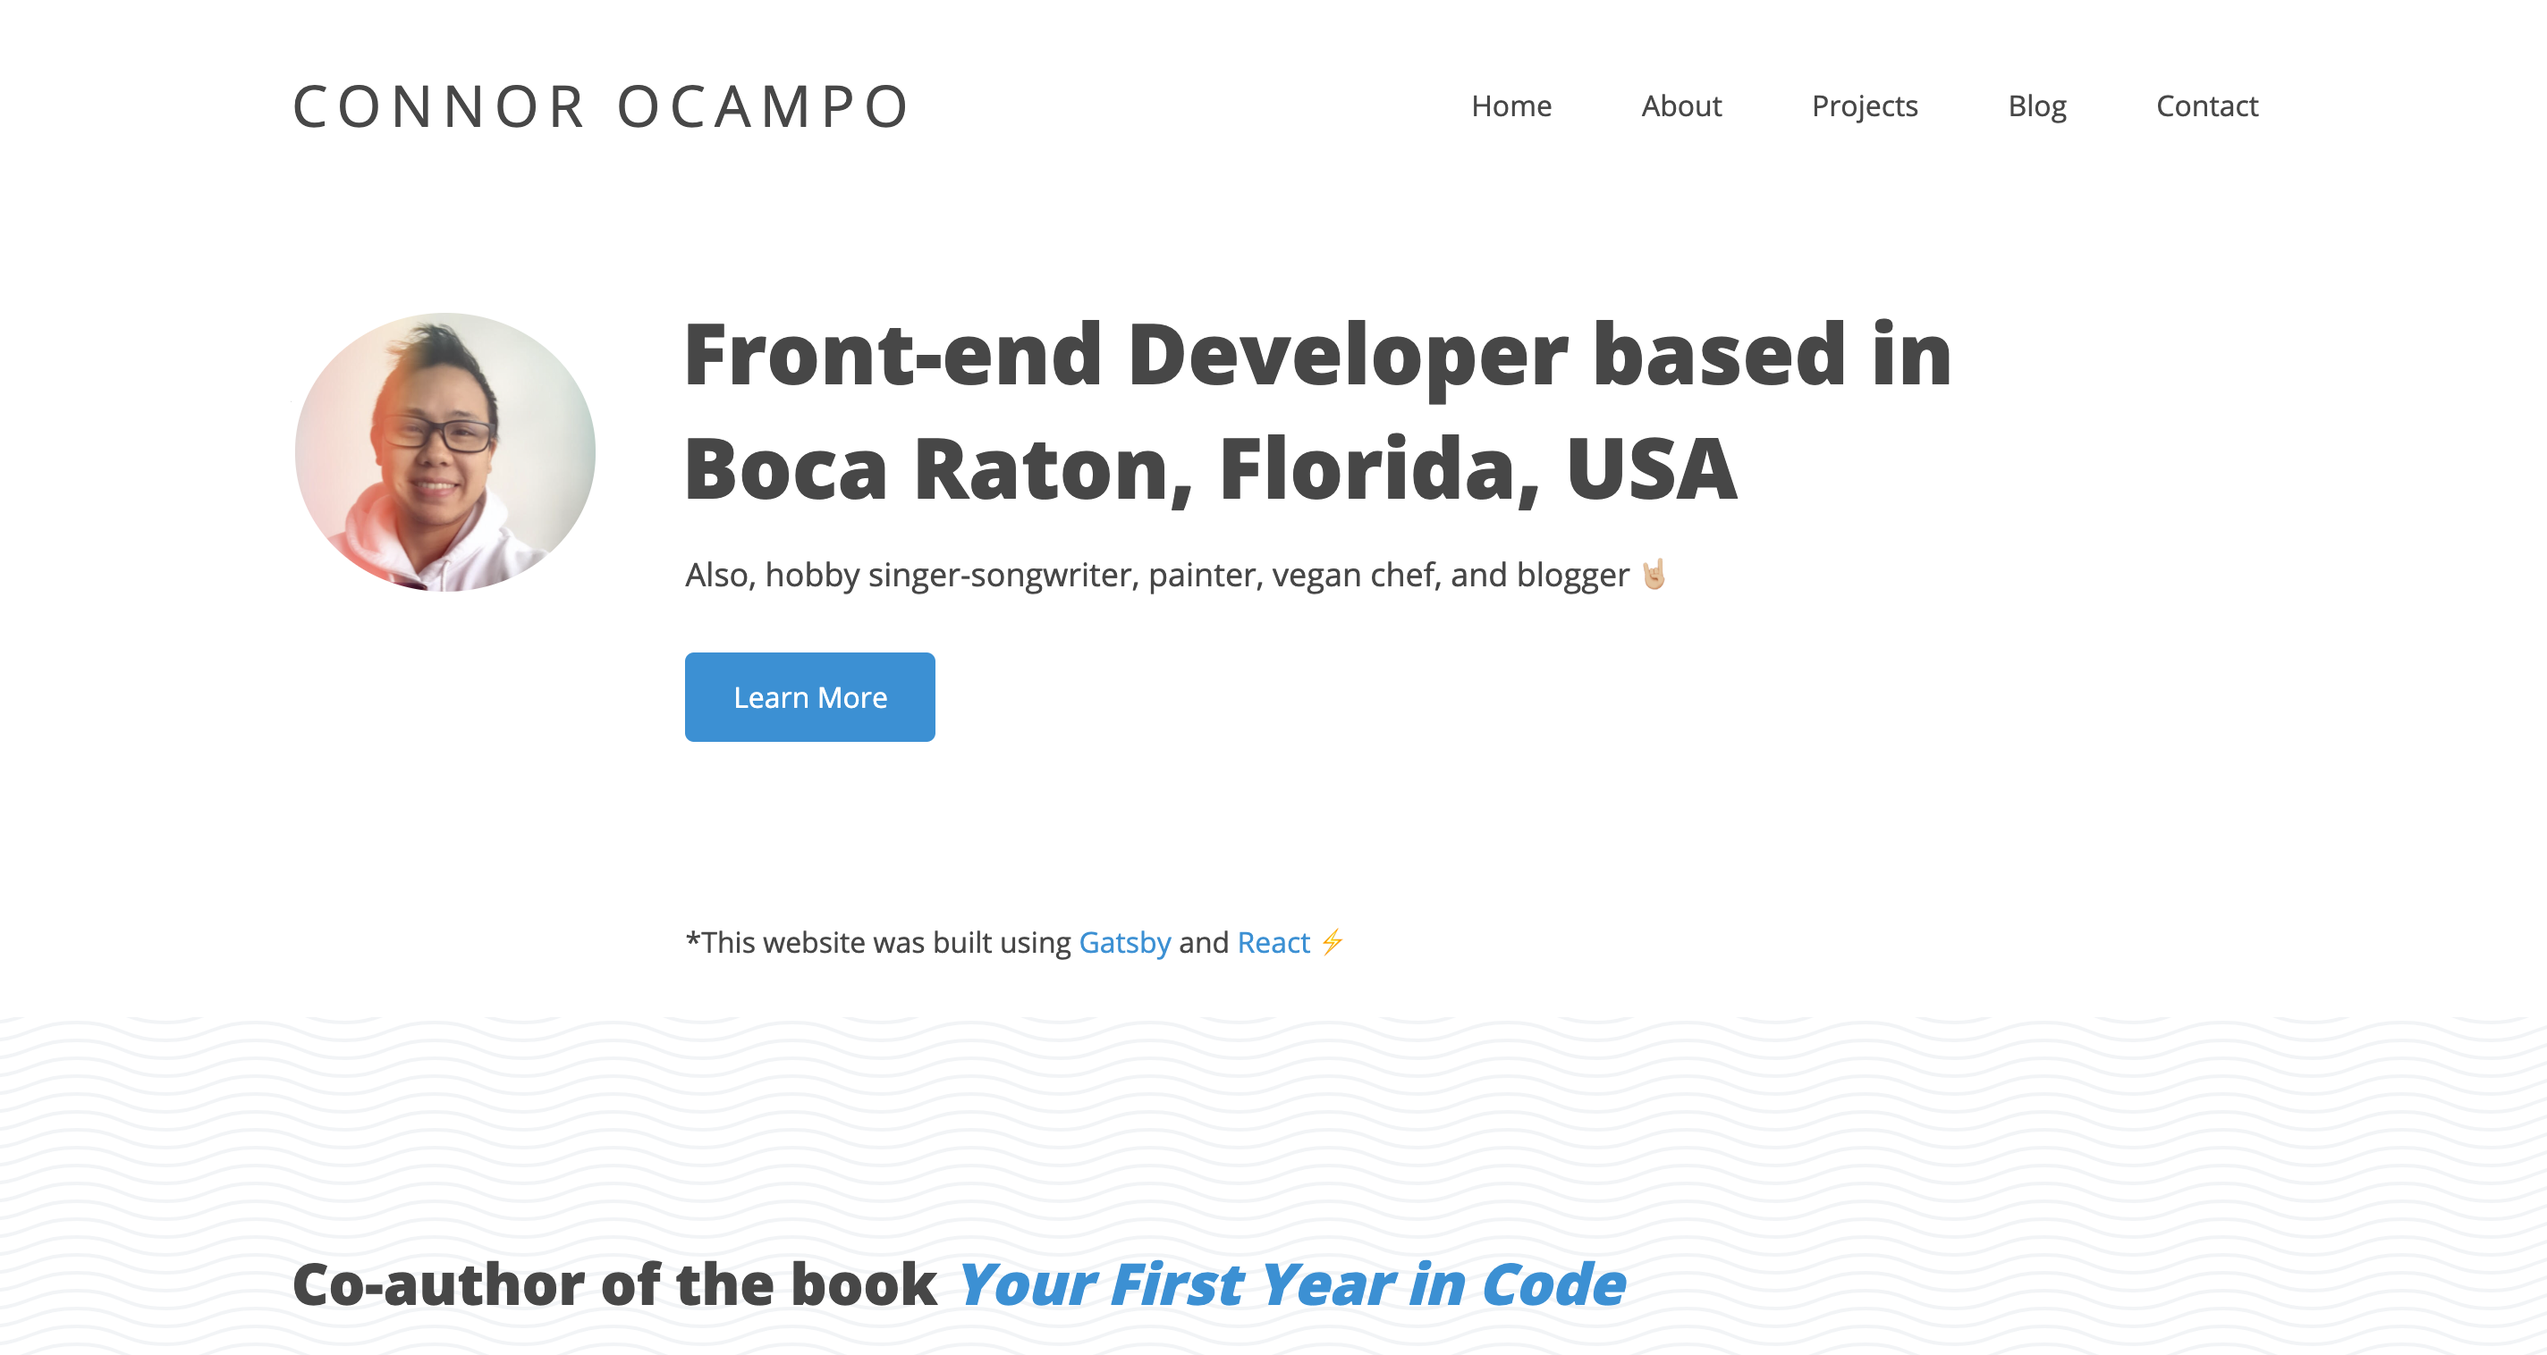
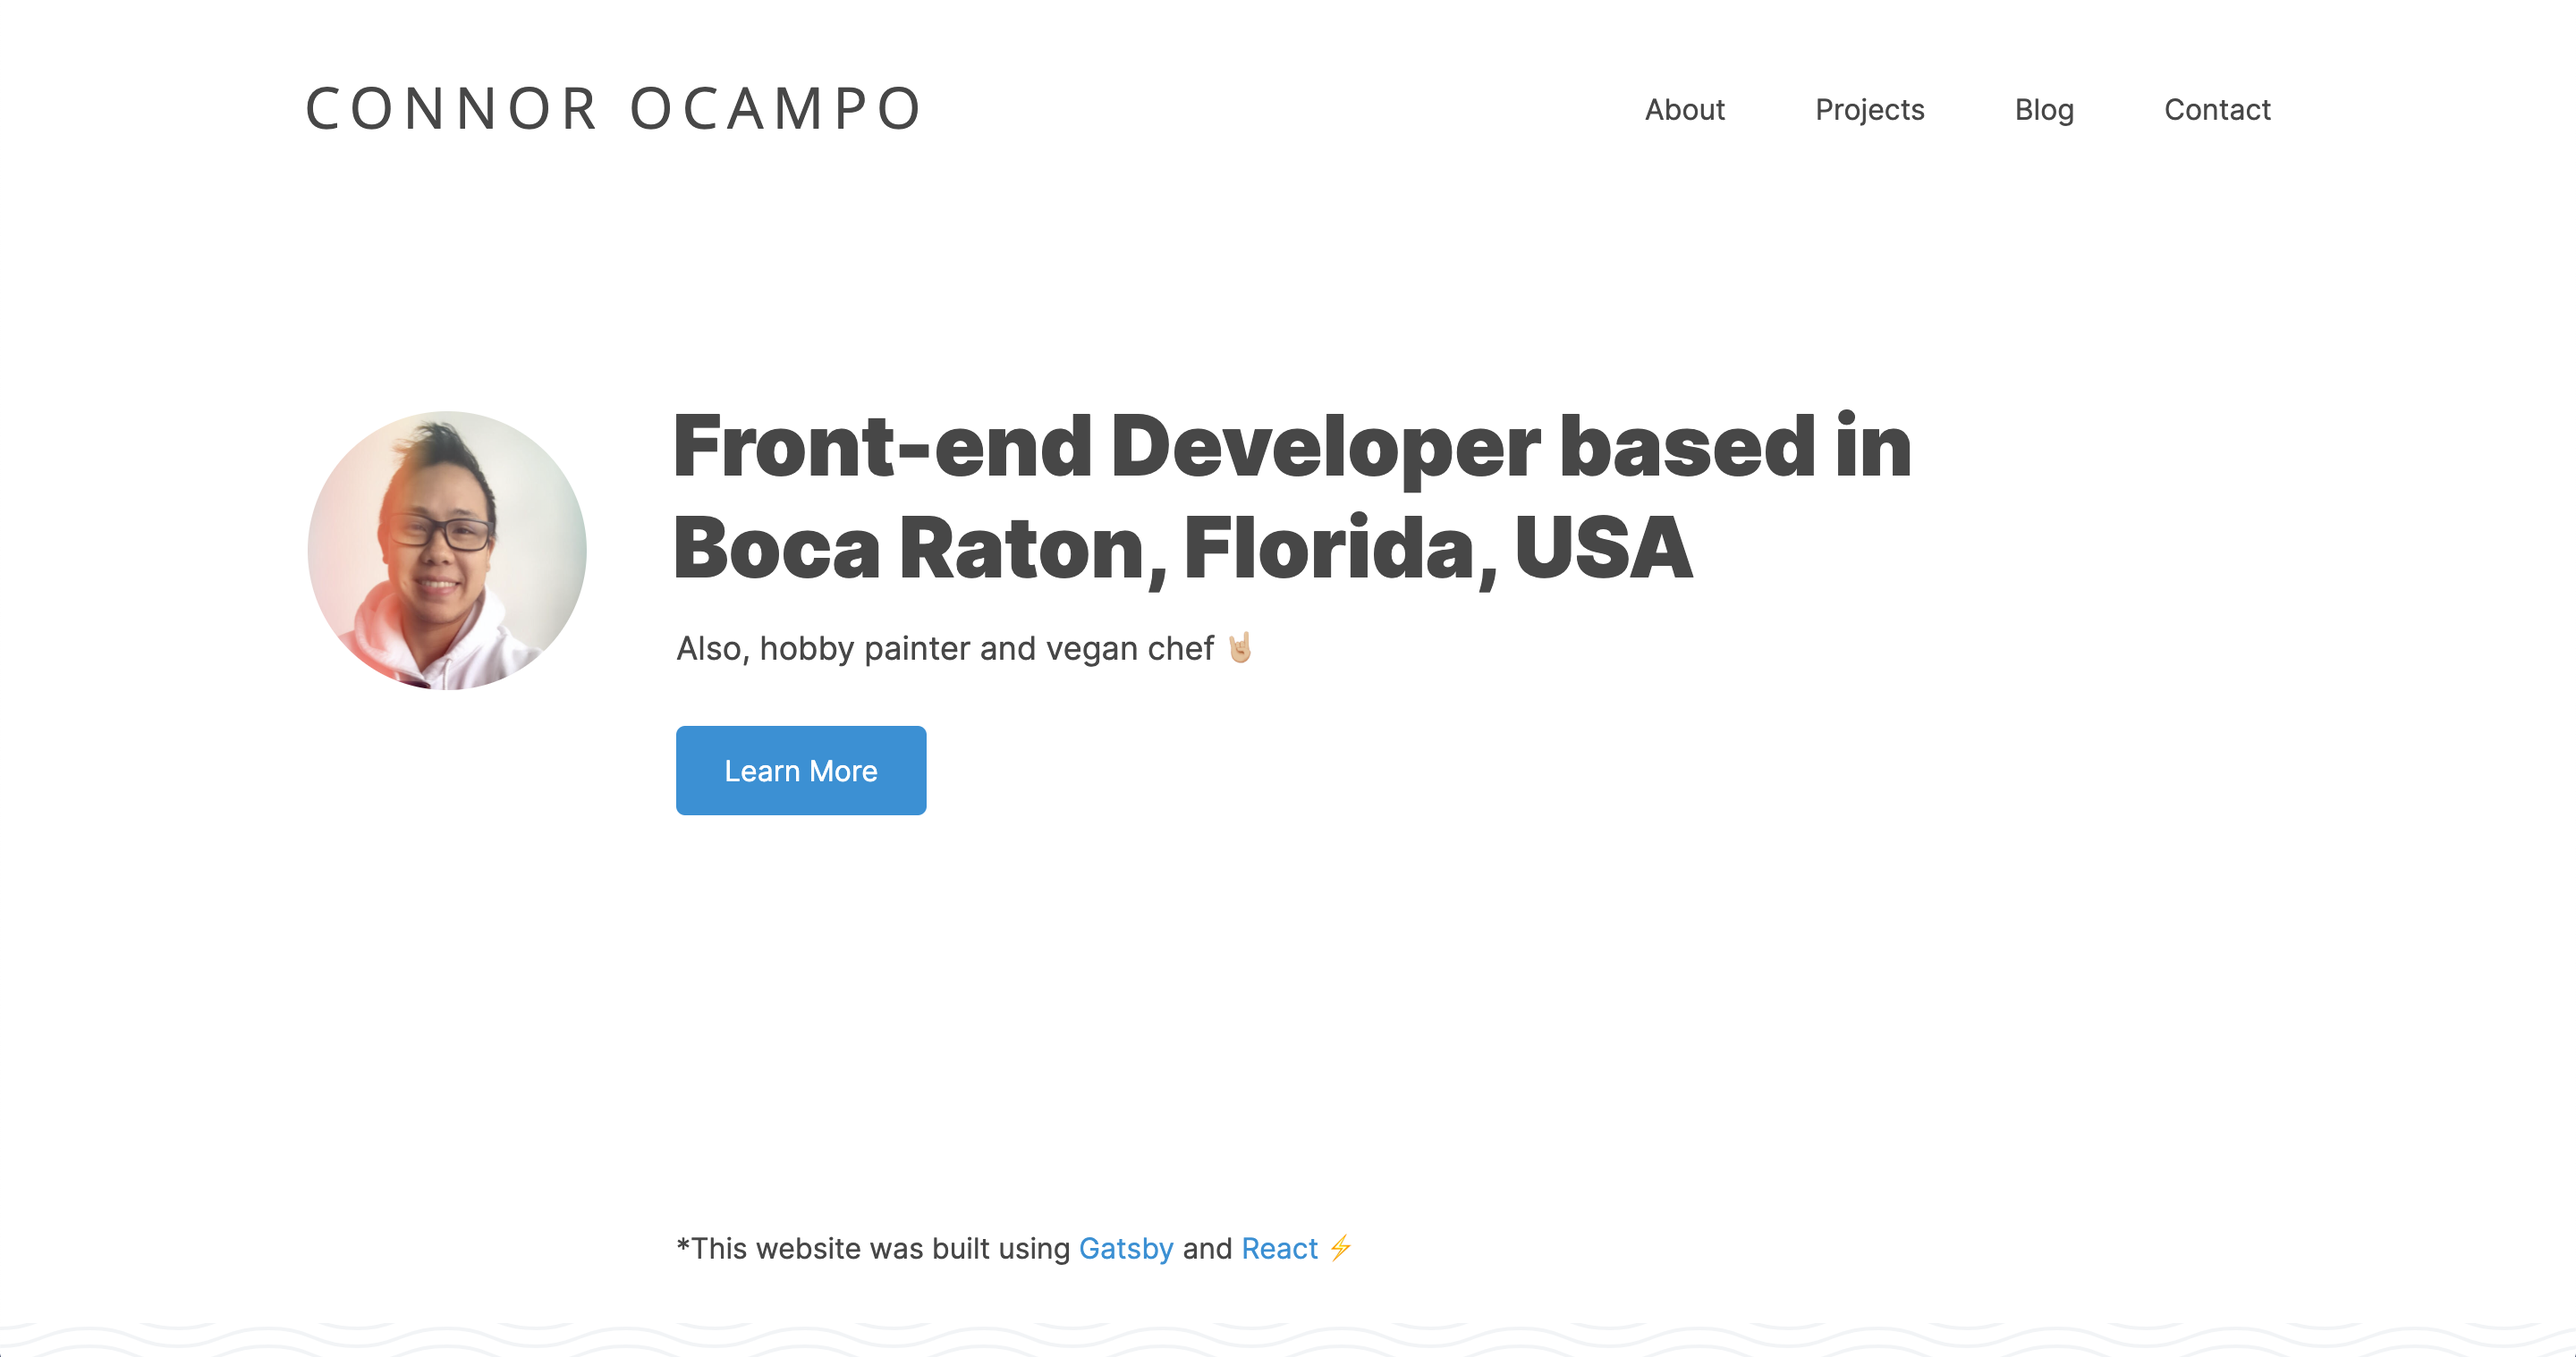
Add project image styles

diff --git a/src/assets/styles/main.css b/src/assets/styles/main.css
@@ -58,6 +58,10 @@ a:hover {
 
 /* Bio section */
 
+.bio-content {
+  margin-top: 20vh;
+}
+
 .bio-button {
   align-items: center;
   background: #0090D9;
@@ -67,7 +71,8 @@ a:hover {
   font-size: 16px;
   justify-content: center;
   height: 50px;
-  margin-bottom: 100px;
+  /* margin-bottom: 100px; */
+  margin-bottom: 30vh;
   text-decoration: none;
   width: 140px;
 }
@@ -118,10 +123,15 @@ a:hover {
 .project-item {
   transition-property: transform;
   transition-duration: 0.3s;
+  position: relative;
 }
 
 .project-item:hover {
-  transform: scale(1.1);
+  box-shadow: 10px 10px 0 #0090d9;
+  top: -5px;
+  left: -5px;
+  transition: left .2s ease, top .2s ease,box-shadow .2s ease;
+  will-change: left, top;
 }
 
 /* Shop Page */
@@ -163,6 +173,11 @@ a:hover {
   .bio-content {
     display: flex;
     flex-direction: column;
+    margin-top: 0;
+  }
+
+  .bio-button {
+    margin-bottom: 20vh;
   }
 
   .bio-thumbnail {
@@ -183,7 +198,7 @@ a:hover {
   }
 
   .tech-credit {
-    font-size: 12px;
+    font-size: 12px !important;
     max-width: 500px;
   }
 

diff --git a/src/pages/about.js b/src/pages/about.js
@@ -91,7 +91,7 @@ export default () => (
         <b><u>Front-end:</u></b> Github, Atom, VS Code (my fav), GIT, Homebrew, CSS, SCSS, Tailwind, React, styled-components, Gatsby, Netlify, Surge.sh. The design aspect is in my wheelhouse in terms of front-end development.
       </p>
       <p>
-        <b><u>Design:</u></b> Sketch, Abstract, Photoshop, and good ol' sketch paper. As far as design goes, I've done a bit of work on wireframing personal and professional projects.
+        <b><u>Design:</u></b> Sketch, Abstract, Photoshop, good ol' sketch paper, DaVinci Resolve.
       </p>
       <LastParagraph>
         <b><u>Marketing:</u></b> Google Analytics, SEMrush, Hootsuite, Yoast, MailChimp, Buffer. Most of my marketing work consists of monitoring/reporting analytics, copywriting and optimizing articles, and organic social media marketing.

diff --git a/src/pages/projects.js b/src/pages/projects.js
@@ -18,7 +18,6 @@ import Dribbble from "../assets/images/Dribbble.jpg";
 import Dribbble02 from "../assets/images/Dribbble02.jpg";
 import DroneWorld from "../assets/images/DroneWorld.png";
 
-
 const Heading = styled.h1`
   font-family: 'Inter Black', 'Open Sans Heavy';
   font-size: ${props => props.theme.size.headerBig};
@@ -33,7 +32,7 @@ const Disclaimer = styled.p`
 `;
 
 export const Image = styled.img`
-  border-radius: 5px;
+  // border-radius: 5px;
   box-shadow: 10px 10px 20px #e0e0e0;
   max-width: 500px;
 `;
@@ -97,7 +96,7 @@ export default () => (
           </div>
         </div>
       </div>
-      <Footer />
+      <Footer/>
     </Layout>
   </ThemeProvider>
 )

diff --git a/src/components/home/bio.js b/src/components/home/bio.js
@@ -60,7 +60,7 @@ class Bio extends React.Component {
             <Tagline className="tagline">
               Front-end Developer based in Boca Raton, Florida, USA
             </Tagline>
-            <SubTitle className="subtitle">Also, hobby painter, vegan chef, and blogger <span role="img" aria-label="emoji">🤘🏼</span></SubTitle>
+            <SubTitle className="subtitle">Also, hobby painter and vegan chef <span role="img" aria-label="emoji">🤘🏼</span></SubTitle>
             <Link
               to="/about"
               className="bio-button">Learn More

diff --git a/src/components/home/Book.js b/src/components/home/Book.js
@@ -54,7 +54,6 @@ export const Image = styled.img`
 `;
 
 export const BookTextContainer = styled.div`
-  margin-top: -13px;
   max-width: 700px;
 `;
 
